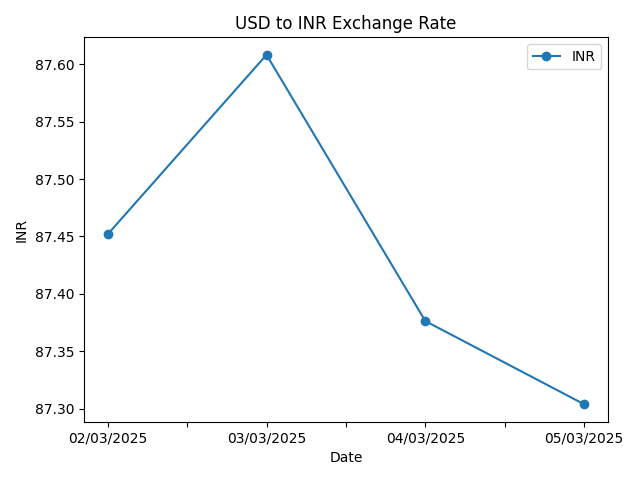
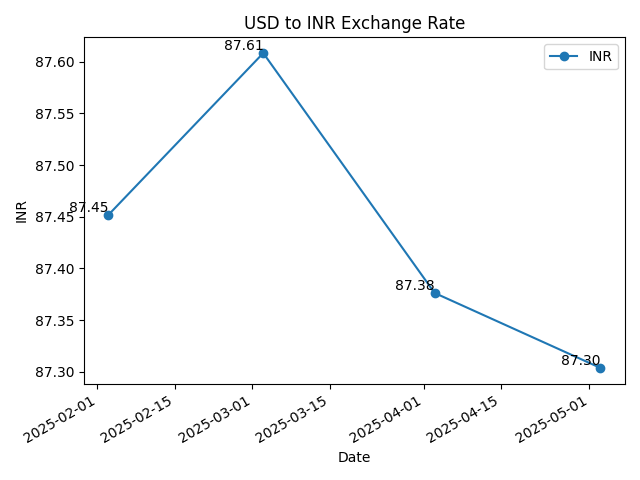
lable for inr in inr is added

diff --git a/dollar_vs_inr.py b/dollar_vs_inr.py
@@ -51,16 +51,29 @@ def plot_and_save_usd_to_inr(df, filename="usd_to_inr_exchange_rate.png"):
         if df_inr.empty:
             print("No INR data found in DataFrame.")
             return
+        # Convert time_last_update_utc to datetime
+        # Convert time_last_update_utc to datetime and set as index
+        df_inr['time_last_update_utc'] = pd.to_datetime(df_inr['time_last_update_utc'], errors='coerce')
+        df_inr.dropna(subset=['time_last_update_utc'], inplace=True)
+        df_inr.insert(1, 'date', df_inr['time_last_update_utc'].dt.date)
+        df_inr.set_index('time_last_update_utc', inplace=True)  # Set datetime as index
 
         df_inr.drop(columns=['Currency'], inplace=True)
         df_inr.rename(columns={'Rate': 'INR'}, inplace=True)
 
-        ax = df_inr.plot(x='time_last_update_utc', y='INR', kind='line', marker= 'o',legend=True, label='INR')  # added legend=False
+        ax = df_inr.plot(x='date', y='INR', kind='line', marker= 'o', legend=True)
+
+        # Add labels to each data point
+        for i, row in df_inr.iterrows():
+            ax.text(row['date'], row['INR'], f"{row['INR']:.2f}",
+                    fontsize=10, ha='right', va='bottom', color='black')
+        plt.xticks(rotation=90)  # Rotates labels vertically
+        plt.gcf().autofmt_xdate()  # Improve the layout and rotation if necessary
         plt.title('USD to INR Exchange Rate')
         plt.xlabel('Date')
         plt.ylabel('INR')
 
-        ax.legend(['INR'])
+
         plt.tight_layout()
 
         # Save the plot to a file
